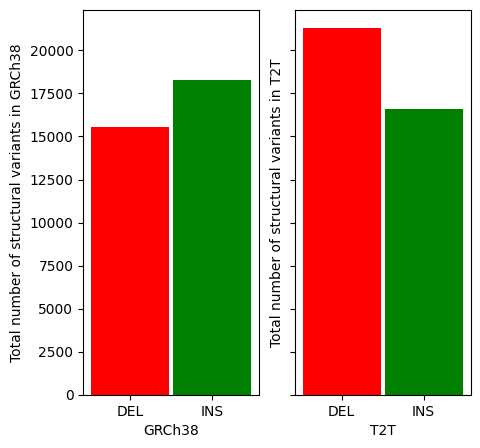
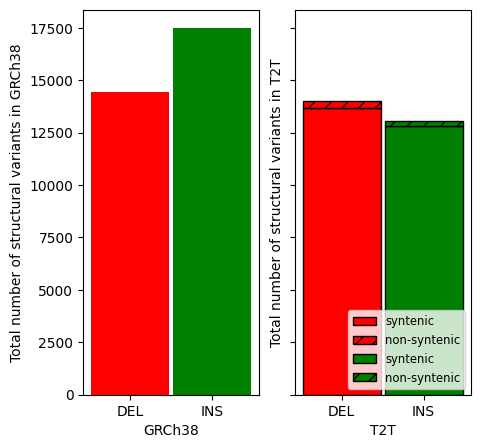
bash script: It now obtains the end position of the structural variant instead of the filter. It also now filters on lengths instead of the python script doing it
Python script:
Added the function that gets the amount of SVs that overlap with a non-syntenic region
It now doesn't check the length.
New method of checking the type of SV.
Changed some variable names.
The barplot now also shows the amount of non-syntenic SVs.
Updated the docstrings and comments.

Updated the markdown file.

diff --git a/scripts/python/structural_variation_lineplot.py b/scripts/python/structural_variation_lineplot.py
@@ -4,65 +4,61 @@ import matplotlib.pyplot as plt
 import matplotlib
 
 def open_sv_files(arguments):
-    """This function reads the t2t sv file and turns it into a dataframe. Checks if the row is an insertion of deletion
-     depending on the length of the variation and makes the length of the deletions absolute.
+    """
+    This function reads the t2t and GRCh38 structural variant filed and turns it into a dataframe.
+    Checks if the row is an insertion of deletion and puts it into the corresponding dataframe and makes the
+    length of the deletions absolute. These dataframes get returned, so that the structural variants can be grouped
+    based on their length.
 
      :param:
-        argument.T2T_filtered_txt_file (txt file): text file with the Structural Variants (sv) from the sample mapped
+        argument.T2T_filtered_txt_file (bed file): text file with the Structural Variants (sv) from the sample mapped
         to the T2T reference genome.
-        argument.GRCh38_filtered_txt_file (txt file): text file with the Structural Variants (sv) from the sample mapped
+        argument.GRCh38_filtered_txt_file (bed file): text file with the Structural Variants (sv) from the sample mapped
         to the GRCh38 (Hg38) reference genome.
 
      :return:
         df_t2t_insertions (pandas dataframe): dataframe containing insertions from the t2t file.
-        df_t2t_deletions_absolute (pandas dataframe): dataframe containing deletions from the t2t file in absolute
+        df_t2t_deletions (pandas dataframe): dataframe containing deletions from the t2t file in absolute
         format.
         df_hg38_insertions (pandas dataframe): dataframe containing insertions from the hg38 file.
-        df_hg38_deletions_absolute (pandas dataframe): dataframe containing deletions from the hg38 file in absolute
+        df_hg38_deletions (pandas dataframe): dataframe containing deletions from the hg38 file in absolute
         format.
     """
-    column_names = ["CHROM", "POS", "FILTER", "GT", "LENGTH"]
+    column_names = ["CHROM", "START_POS", "END_POS", "LENGTH", "TYPE"]
     # Opens the argument files and makes them into dataframes
-    t2t_dataframe = pd.read_csv(arguments.T2T_filtered_txt_file, sep=" ", encoding="utf-8", names=column_names)
-    hg38_dataframe = pd.read_csv(arguments.GRCh38_filtered_txt_file, sep=" ", encoding="utf-8", names=column_names)
-
-    # Gives the column names to the dataframe
-    t2t_dataframe.columns = ["CHROM", "POS", "FILTER", "GT", "LENGTH"]
-    hg38_dataframe.columns = ["CHROM", "POS", "FILTER", "GT", "LENGTH"]
+    t2t_dataframe = pd.read_csv(arguments.T2T_indel_bed_file, sep="\t", encoding="utf-8", names=column_names)
+    hg38_dataframe = pd.read_csv(arguments.GRCh38_filtered_indel_bed_file, sep="\t", encoding="utf-8",
+                                 names=column_names)
 
     # Separates the insertions and deletions by looking at the lengths if the indels (positive length means insertion
-    # negative length means deletions)
-    df_t2t_insertions = t2t_dataframe[t2t_dataframe["LENGTH"] > 0]
-    df_t2t_deletions = t2t_dataframe[t2t_dataframe["LENGTH"] < 0]
+    # negative length means deletions). A copy of the deletion dataframes are made so that a settingWithCopyWarning
+    # doesn't occur
+    df_t2t_insertions = t2t_dataframe[t2t_dataframe["TYPE"] == "INS"]
+    df_t2t_deletions = t2t_dataframe[t2t_dataframe["TYPE"] == "DEL"].copy()
 
-    df_hg38_insertions = hg38_dataframe[hg38_dataframe["LENGTH"] > 0]
-    df_hg38_deletions = hg38_dataframe[hg38_dataframe["LENGTH"] < 0]
+    # Separates the dataframe into two dataframe with each containing their corresponding structural variants
+    df_hg38_insertions = hg38_dataframe[hg38_dataframe["TYPE"] == "INS"]
+    df_hg38_deletions = hg38_dataframe[hg38_dataframe["TYPE"] == "DEL"].copy()
 
     # Turns the length of the deletions absolute
-    df_t2t_deletions_absolute = df_t2t_deletions["LENGTH"].abs()
-    df_hg38_deletions_absolute = df_hg38_deletions["LENGTH"].abs()
+    df_t2t_deletions["LENGTH"] = df_t2t_deletions["LENGTH"].abs()
+    df_hg38_deletions["LENGTH"] = df_hg38_deletions["LENGTH"].abs()
 
-
-    # Removing the indels that are lower than 30.
-    df_t2t_insertions = df_t2t_insertions[df_t2t_insertions["LENGTH"] >= 30]
-    df_hg38_insertions = df_hg38_insertions[df_hg38_insertions["LENGTH"] >= 30]
-    df_t2t_deletions_absolute = df_t2t_deletions_absolute[df_t2t_deletions_absolute >= 30]
-    df_hg38_deletions_absolute = df_hg38_deletions_absolute[df_hg38_deletions_absolute >= 30]
-
-    return df_t2t_insertions, df_t2t_deletions_absolute, df_hg38_insertions, df_hg38_deletions_absolute,
+    return df_t2t_insertions, df_t2t_deletions, df_hg38_insertions, df_hg38_deletions,
 
 
 def getting_total_indels(df_t2t_insertions, df_t2t_deletions_absolute, df_hg38_insertions, df_hg38_deletions_absolute):
     """
     This functions gets the total number of insertions and deletions from the t2t file and the hg38 file by obtaining
-    the shape of the dataframe and getting the number of rows.
+    the shape of the dataframe and getting the number of rows. Then these numbers get returned, so they can be used to
+    calculate the amount of structural variants that don't overlap with a non-syntenic region.
 
     :param:
         df_t2t_insertions (pandas dataframe): dataframe containing insertions from the t2t file.
         df_t2t_deletions_absolute (pandas dataframe): dataframe containing deletions from the t2t file in absolute
         format.
         df_hg38_insertions (pandas dataframe): dataframe containing insertions from the hg38 file.
-        df_hg38_deletions_absolute (pandas dataframe): dataframe containing deletions from the hg38 file in absolute
+        df_hg38_deletions (pandas dataframe): dataframe containing deletions from the hg38 file in absolute
         format.
 
     :return:
@@ -79,18 +75,19 @@ def getting_total_indels(df_t2t_insertions, df_t2t_deletions_absolute, df_hg38_i
 
     return total_t2t_insertions, total_t2t_deletions, total_hg38_insertions, total_hg38_deletions
 
-def get_and_compare_lengths(df_t2t_insertions, t2t_df_deletions_absolute, df_hg38_insertions,
-                            df_hg38_deletions_absolute):
+def get_and_compare_lengths(df_t2t_insertions, t2t_df_deletions, df_hg38_insertions,
+                            df_hg38_deletions):
     """
-    This functions gets the dataframes with insertions or deletions from both the t2t and hg38 reference genome.
-    It then goes through the dataframes and gets the amount of variations whose length is in between certain lengths.
+    This functions gets the dataframes with the insertions or deletions from both the t2t and hg38 reference genome.
+    It then goes through the dataframes and separates the variations into groups based on the length of the variations.
+    It then returns these newly grouped dataframes, so they can be used in the lineplot
 
     :param:
         df_t2t_insertions (dataframe): dataframe containing insertions from the t2t file.
-        t2t_df_deletions_absolute (dataframe): dataframe containing deletions whose length has been made absolute
+        t2t_df_deletions (dataframe): dataframe containing deletions whose length has been made absolute
         from the t2t file.
         df_hg38_insertions (dataframe): dataframe containing insertions from the hg38 file.
-        hg38_df_deletions (dataframe): dataframe containing deletions from the hg38 file.
+        hg38_df_deletions_absolute (dataframe): dataframe containing deletions from the hg38 file.
 
     :return:
         t2t_ins_distance (list): list with the amount of insertions from the t2t file whose length is in between certain
@@ -122,7 +119,7 @@ def get_and_compare_lengths(df_t2t_insertions, t2t_df_deletions_absolute, df_hg3
     # subset into the list that will be used as values for the plot. So hg38_del_distances contains at the end 12
     # numbers corresponding with the amount of variations that have a certain length.
     hg38_del_distances.extend(
-        [len(df_hg38_deletions_absolute[df_hg38_deletions_absolute.between(start, end)]) for start,
+        [len(df_hg38_deletions[df_hg38_deletions["LENGTH"].between(start, end)]) for start,
         end in [(30, 50), (50, 100), (100, 200), (200, 300), (300, 400), (400, 500), (500, 750), (750, 1000),
                 (1000, 2000), (2000, 5000), (5000, 10000)] + [(10000, float('inf'))]])
     # ----------------------------------------------------------------------------------------------------
@@ -140,7 +137,7 @@ def get_and_compare_lengths(df_t2t_insertions, t2t_df_deletions_absolute, df_hg3
     # subset into the list that will be used as values for the plot. So hg38_ins_distances contains at the end 12
     # numbers corresponding with the amount of variations that have a certain length.
     t2t_del_distances.extend(
-        [len(t2t_df_deletions_absolute[t2t_df_deletions_absolute.between(start, end)]) for start, end in
+        [len(t2t_df_deletions[t2t_df_deletions["LENGTH"].between(start, end)]) for start, end in
          [(30, 50), (50, 100), (100, 200), (200, 300), (300, 400), (400, 500), (500, 750), (750, 1000), (1000, 2000),
           (2000, 5000), (5000, 10000)] + [(10000, float('inf'))]])
 
@@ -151,12 +148,45 @@ def get_and_compare_lengths(df_t2t_insertions, t2t_df_deletions_absolute, df_hg3
     max_insertions = max(t2t_ins_distances)
     highest_count = max(max_deletions, max_insertions)
 
-
     return t2t_ins_distances, t2t_del_distances, hg38_ins_distances, hg38_del_distances, highest_count
 
+def non_synthenic_t2t_overlap(arguments):
+    """
+    This function gets the structural variants that overlap with a non-syntenic region in T2T compared to hg38 and
+    puts them into a dataframe. It then obtains the amount of insertions and deletions from that dataframe and returns
+    those amounts, so they can be used in the barplot later.
+
+    :param:
+        arguments.intersected_indel_non_syntenic (bed file): BED file containing the structural variants that
+        overlap with a non-syntenic region in T2T compared to GRCh38.
+
+    :return:
+        number_of_non_syntenic_insertions (int): the amount of insertions that overlap with a non-syntenic region.
+        number_of_non_syntenic_deletions (int): the amount of deletions that overlap with a non-syntenic region.
+    """
+    # Reads the BED file containing the structural variants and turns it into a dataframe with the variables in the list
+    # as the headers
+    column_names = ["CHROM", "START_POS", "END_POS", "LENGTH", "TYPE"]
+    non_syntenic_intersection_t2t_dataframe = pd.read_csv(arguments.intersected_indel_non_syntenic, sep="\t",
+                                                      encoding="utf-8", names=column_names)
+
+    # Gets the insertions from the non-syntenic SVs dataframe and puts them into a dataframe of which the length
+    # gets saved in the variable
+    number_of_non_syntenic_insertions = len(non_syntenic_intersection_t2t_dataframe
+                                             [non_syntenic_intersection_t2t_dataframe
+                                              ["TYPE"] == "INS"])
+
+    # Gets the deletions from the non-syntenic SVs dataframe and puts them into a dataframe of which the length gets
+    # saved in the variable
+    number_of_non_syntenic_deletions = len(non_syntenic_intersection_t2t_dataframe
+                                            [non_syntenic_intersection_t2t_dataframe
+                                             ["TYPE"] == "DEL"])
+
+    return number_of_non_syntenic_insertions, number_of_non_syntenic_deletions
 
 def plot_lineplot(t2t_ins_distances, t2t_del_distances, hg38_ins_distances, hg38_del_distances, highest_count):
-    """This function plots one figure containing two different plots. The first plot has the indels balance with the
+    """
+    This function plots one figure containing two different plots. The first plot has the indels balance with the
     CHM13 reference genome and the second plot has the indel balance with the Hg38 reference genome.
 
     :param:
@@ -164,20 +194,17 @@ def plot_lineplot(t2t_ins_distances, t2t_del_distances, hg38_ins_distances, hg38
         t2t_del_distances (list): list of the lengths of the deletions found with the t2t reference genome.
         hg38_ins_distances (list): list of the lengths of the insertions found with the hg38 reference genome.
         hg38_del_distances (list): list of the lengths of the deletions found with the hg38 reference genome.
+        highest_count (int): the highest amount of insertions or deletions. To set the height of the plot.
 
     :return:
         a line plot as structural_variation_indel_comparison.png
     """
-
     # Makes the plotting work on the server
     matplotlib.use("Agg")
 
     # List with the different groups of indel lengths. Used for the x-axis.
     lengths = ["30-50", "50-100 ", "100-200", "200-300", "300-400", "400-500", "500-750", "750-1k", "1k-2k", "2k-5k",
                "5k-10k", "10k+"]
-
-    # Sets the font size for the plots.
-    # plt.rcParams.update({'font.size': 5.75})
 
     # Indicates that two plots (ax1, ax2) will be made, that they will be next to each other (2 columns) and that
     # they share the same y-axis.
@@ -188,7 +215,6 @@ def plot_lineplot(t2t_ins_distances, t2t_del_distances, hg38_ins_distances, hg38
 
     # To return the current active axes. Used to set extra things for the plots up.
     ax = plt.gca()
-
 
     # Setting up the first plot. This has the lengths list as the x-axis, amount of insertions and deletions from the
     # t2t file separate on the y-axis, marker to get a dot when the x and y-axis cross, color to dictate the color and
@@ -216,7 +242,7 @@ def plot_lineplot(t2t_ins_distances, t2t_del_distances, hg38_ins_distances, hg38
         ax.set_title(titles[ax])
         ax.legend(loc="upper right")
         ax.grid(True)
-        ax.tick_params(labelrotation=40, axis="x")
+        ax.tick_params(labelrotation=32, axis="x")
         ax.set_xlabel("Length")
 
     # Saves the plot as the given file.
@@ -227,22 +253,34 @@ def plot_lineplot(t2t_ins_distances, t2t_del_distances, hg38_ins_distances, hg38
     # when you want to see the file outside the server
     # plt.show()
 
-def make_total_barplot(total_t2t_insertions, total_t2t_deletions, total_hg38_insertions, total_hg38_deletions):
+
+def make_total_barplot(total_t2t_insertions, total_t2t_deletions,
+                       total_hg38_insertions, total_hg38_deletions,
+                       number_of_non_syntenic_insertions, number_of_non_syntenic_deletions):
     """
-    The function gets the total number of insertions and deletions per reference genome and makes a barplot with those
-    numbers.
+    The function gets the total number of insertions and deletions per reference genome and the number of structural
+    variants that overlap with a non-syntenic region in T2T and makes a barplot with those numbers.
 
     :param:
         df_t2t_insertions (pandas dataframe): dataframe containing insertions from the t2t file.
         df_t2t_deletions_absolute (pandas dataframe): dataframe containing deletions from the t2t file in absolute
         format.
         df_hg38_insertions (pandas dataframe): dataframe containing insertions from the hg38 file.
-        df_hg38_deletions_absolute (pandas dataframe): dataframe containing deletions from the hg38 file in absolute
+        df_hg38_deletions (pandas dataframe): dataframe containing deletions from the hg38 file in absolute
         format.
+        number_of_non_syntenic_insertions (int): number of insertions that overlap with a non-syntenic region in T2T
+        compared to hg38.
+        number_of_non_syntenic_deletions (int): number of deletions that overlap with a non-syntenic region in T2T
+        compared to hg38.
 
     :return:
-        a barplot comparing the total number of indels saved as Total_indel_comparison.png
+        Total_indel_comparison.png (PNG) a barplot comparing the total number of indels between the T2T and hg38
+        reference genomes, and it plots the amount of indels overlapping with a non-syntenic region
     """
+    # Calculates the amount of intsertions/deletions that overlap with a syntenic regions by subtracting the amount
+    # of insertions/deletion by the number of insertions/deletions that overlap with a non-syntenic region
+    number_of_syntenic_insertions = total_t2t_insertions - number_of_non_syntenic_insertions
+    number_of_syntenic_deletion = total_t2t_deletions - number_of_non_syntenic_deletions
 
     # Makes sure the plot can be saved on the server
     matplotlib.use("Agg")
@@ -257,11 +295,21 @@ def make_total_barplot(total_t2t_insertions, total_t2t_deletions, total_hg38_ins
     # To return the current active axes. Used to set extra things for the plots up.
     ax = plt.gca()
 
+    # Adds the amount of deletions and insertions as barplots the left part of the plot
     ax1.bar("DEL", total_hg38_deletions, width=0.95, color="red")
     ax1.bar("INS", total_hg38_insertions, width=0.95, color="green")
 
-    ax2.bar("DEL", total_t2t_deletions, width=0.95, color="red")
-    ax2.bar("INS", total_t2t_insertions, width=0.95, color="green")
+    # Adds the amount of deletions separated into overlapping with a non-syntenic region or a syntenic region as a
+    # single stacked barplot on the right part of the plot
+    ax2.bar("DEL", number_of_syntenic_deletion, width=0.95, color="red", edgecolor="black", label="syntenic")
+    ax2.bar("DEL", number_of_non_syntenic_deletions, width=0.95, color="red", bottom=number_of_syntenic_deletion,
+            hatch="//", edgecolor="black", label="non-syntenic")
+
+    # Adds the amount of insertions separated into overlapping with a non-syntenic region or a syntenic region as a
+    # single stacked barplot on the right part of the plot
+    ax2.bar("INS", number_of_syntenic_insertions, width=0.95, color="green", edgecolor="black", label="syntenic")
+    ax2.bar("INS", number_of_non_syntenic_insertions, width=0.95, color="green", bottom=number_of_syntenic_insertions,
+            hatch="//", edgecolor="black", label="non-syntenic")
 
     # Set the y-labels for both of the plots.
     ax1.set_ylabel("Total number of structural variants in GRCh38")
@@ -271,6 +319,9 @@ def make_total_barplot(total_t2t_insertions, total_t2t_deletions, total_hg38_ins
     # from the dictionary, a legend, a grid, rotated the x-values 40 degrees and the x-label
     for ax in [ax1, ax2]:
         ax.set_xlabel(x_labels[ax])
+
+    # Adds a legend to the plot
+    plt.legend(loc="lower right", fontsize="small")
 
     # Saves the plot as the given file.
     plt.savefig("Total_indel_comparison.png", bbox_inches="tight")
@@ -282,29 +333,36 @@ def make_total_barplot(total_t2t_insertions, total_t2t_deletions, total_hg38_ins
     # plt.show()
 
 def main(args):
-    df_t2t_insertions, t2t_df_deletions_absolute, df_hg38_insertions, df_hg38_deletions_absolute = open_sv_files(args)
+    df_t2t_insertions, t2t_df_deletions, df_hg38_insertions, df_hg38_deletions = open_sv_files(args)
 
     total_t2t_insertions, total_t2t_deletions, total_hg38_insertions, total_hg38_deletions = \
-        getting_total_indels(df_t2t_insertions, t2t_df_deletions_absolute, df_hg38_insertions, df_hg38_deletions_absolute)
+        getting_total_indels(df_t2t_insertions, t2t_df_deletions, df_hg38_insertions, df_hg38_deletions)
 
     t2t_ins_distances, t2t_del_distances, hg38_ins_distances, hg38_del_distances, highest_count = (
-        get_and_compare_lengths(df_t2t_insertions, t2t_df_deletions_absolute, df_hg38_insertions,
-                                df_hg38_deletions_absolute))
+        get_and_compare_lengths(df_t2t_insertions, t2t_df_deletions, df_hg38_insertions,
+                                df_hg38_deletions))
+
+    number_of_non_syntenic_insertions, number_of_non_syntenic_deletions = non_synthenic_t2t_overlap(args)
 
     plot_lineplot(t2t_ins_distances, t2t_del_distances, hg38_ins_distances, hg38_del_distances, highest_count)
 
-    make_total_barplot(total_t2t_insertions, total_t2t_deletions, total_hg38_insertions, total_hg38_deletions)
+    make_total_barplot(total_t2t_insertions, total_t2t_deletions,
+                       total_hg38_insertions, total_hg38_deletions,
+                       number_of_non_syntenic_insertions, number_of_non_syntenic_deletions)
 
 if __name__ == '__main__':
     parser = argparse.ArgumentParser(description="Gets the txt files from get_amount_indels_from_file.sh containing the"
                                                  " structural variations from their respective reference genome. Then"
                                                  "calculates the amount of insertions and deletions in the reference"
                                                  "genomes and plots it in a line plot.")
-    parser.add_argument("T2T_filtered_txt_file",
-                        help="Path to the txt file from the get_amount_indels_from_file.sh containing the indels from"
+    parser.add_argument("T2T_indel_bed_file",
+                        help="Path to the bed file from the get_amount_indels_from_file.sh containing the indels from"
                              "T2T-CHM13")
-    parser.add_argument("GRCh38_filtered_txt_file",
-                        help="Path to the txt file from the get_amount_indels_from_file.sh containing the indels from "
+    parser.add_argument("GRCh38_filtered_indel_bed_file",
+                        help="Path to the bed file from the get_amount_indels_from_file.sh containing the indels from "
                              "GRCh38")
+    parser.add_argument("intersected_indel_non_syntenic",
+                        help="Path to the bed file containing structural variants that intersect with "
+                             "the non-syntenic regions in T2T compared to GRCh38")
     args = parser.parse_args()
     main(args)

diff --git a/documentation/structural_variation_indel_balance.md b/documentation/structural_variation_indel_balance.md
@@ -13,11 +13,17 @@ Follow these steps to create a line plot comparing the indel balance between the
 1. Go to the server where the VCF files that you want to plot are located (one from the Hg38 reference genome and one from the T2T reference genome).
 2. Run the [get_amount_indels_from_file.sh](https://github.com/WoutPoelen/Internship_T2T/blob/main/scripts/bash/get_amount_indels_from_file.sh) bash script with first the input VCF file and then the output file. Do this for both the T2T and GRCh38 VCF files. Following example is for the T2T VCF file:
 ```
-bash get_amount_indels_from_file.sh T2T.vcf T2T_svs.txt
+bash get_amount_indels_from_file.sh T2T.vcf T2T_svs.bed
+```
+
+After running the T2T file, run the following command with the just obtained vcf file. 
+This command doesn't have to be performed with the GRCh38 files.
+```
+bedtools intersect -a T2T_svs.bed -b non_syntenic_regions_t2t > intersected_SV_non_syntenic_regions.bed
 ```
 3. Run the [structural_variation_lineplot.py](https://github.com/WoutPoelen/Internship_T2T/blob/main/scripts/python/structural_variation_lineplot.py) python script following the example:
 ```
-python make_sv_lineplot.py t2t_sv.txt GRCh38_sv.txt
+python structural_variation_lineplot.py t2t_sv.bed GRCh38_sv.bed intersected_SV_non_syntenic_regions.bed
 ```
 4. The file SV_indel_comparison.png contains the line plot.
 5. The file Total_indel_comparison.png contains the barplot.
